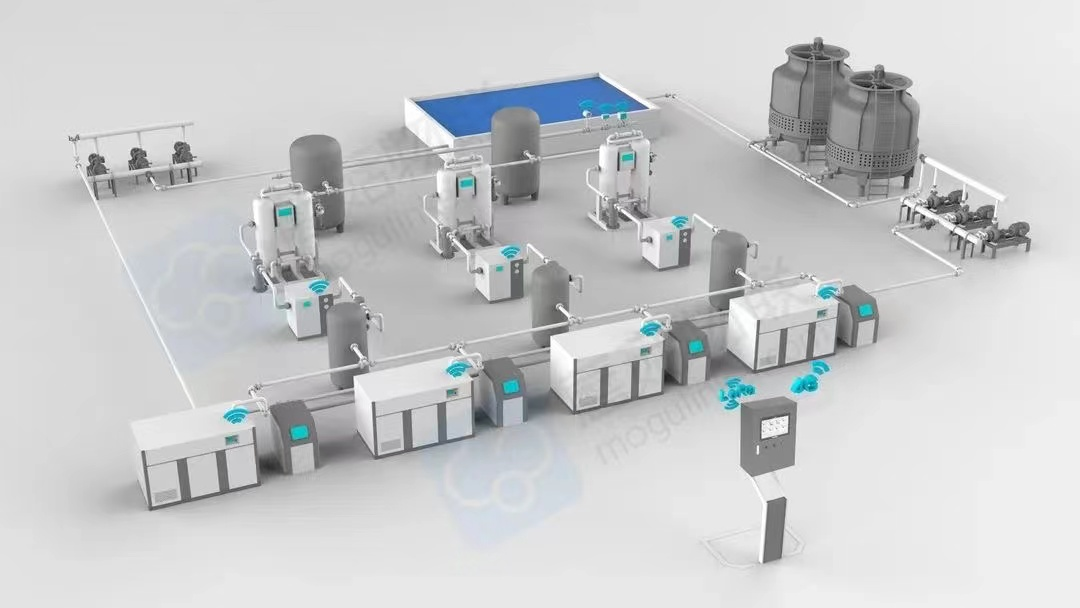
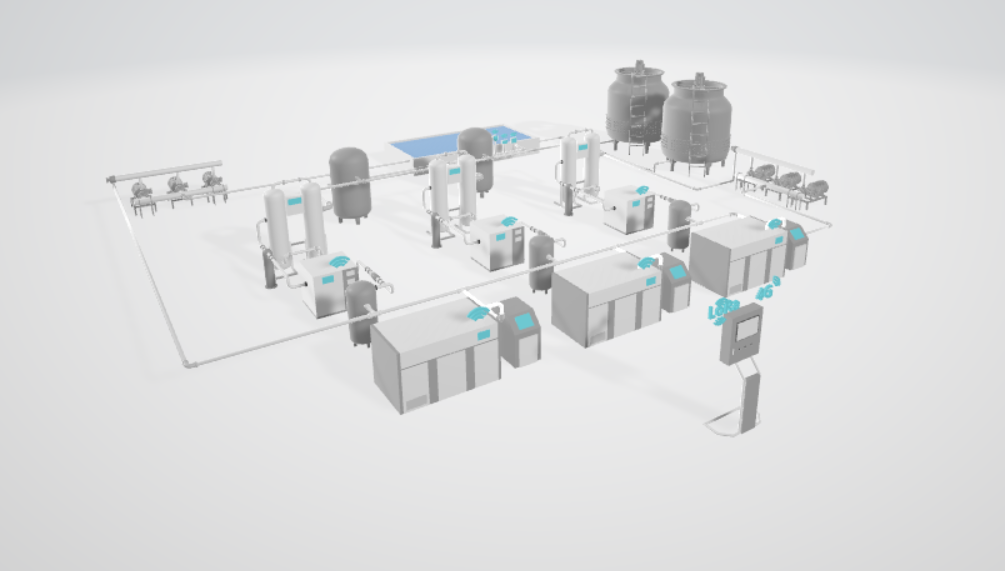
更改

diff --git a/digitaltwin_front/src/views/digitalTwin.vue b/digitaltwin_front/src/views/digitalTwin.vue
@@ -1,137 +1,138 @@
 <template>
-<div id="twin">
+  <div id="twin">
     <!-- <div id="console">
         {{ camera_data }}
     </div> -->
     <br />
     <div id="three"></div>
- </div>
+  </div>
 </template>
-  
-  <script lang="ts">
-  //import { integrityStream } from "ssri";
-  import * as THREE from "three";
-  import { OrbitControls } from "three/examples/jsm/controls/OrbitControls";
-  import { GLTFLoader } from "three/examples/jsm/loaders/GLTFLoader.js";
-  //创建一个三维场景
-  const scene = new THREE.Scene();
-  
-  export default {
-    data() {
-      return {
-        camera: null,
-        renderer: null,
-        camera_data: null,
-        camera1: null,
-        renderer1:null
-      };
-    },
-    mounted() {
-      this.$nextTick(this.init);
-    },
-    methods: {
-      init() {
-        //Light
-        //添加光源
-        const ambient = new THREE.AmbientLight(0xffffff, 0.5);
-        const light1 = new THREE.PointLight(0xffffff, 0.4);
-        const light2 = new THREE.PointLight(0xffffff, 0.4);
-  
-        //Scene
-        scene.add(ambient);
-        light1.position.set(200, 300, 400);
-        scene.add(light1);
-        light2.position.set(-200, -300, -400);
-        scene.add(light2);
-  
-        //Camera
-        //创建一个透视相机
-        const width = window.innerWidth,
-          height = window.innerHeight;
-        this.camera = new THREE.PerspectiveCamera(45, width / height, 1, 1000);
-        //设置相机位置
-        this.camera.position.set(200, 200, 200);
-        //设置相机方向
-        this.camera.lookAt(0, 0, 0);
-  
-        // //创建辅助坐标轴
-        // const axesHelper = new THREE.AxesHelper(100)
-        // scene.add(axesHelper)
-  
-        // //创建一个物体（形状）
-        // const geometry = new THREE.BoxGeometry(100, 100, 100)
-        // //创建材质（外观）
-        // const material = new THREE.MeshLambertMaterial({
-        //   color: 0x00ffff,//设置材质颜色
-        //   transparent: true,//开启透明度
-        //   opacity: 0.5 //设置透明度
-        // })
-        // //创建一个网格模型对象
-        // const mesh = new THREE.Mesh(geometry, material)
-        // //把网格模型添加到三维场景
-        // scene.add(mesh)
-  
-        //Renderer
-        //创建一个WebGL渲染器
-        this.renderer = new THREE.WebGLRenderer();
-        this.renderer.setSize(width, height);
+
+<script lang="ts">
+//import { integrityStream } from "ssri";
+import * as THREE from "three";
+import { OrbitControls } from "three/examples/jsm/controls/OrbitControls";
+import { GLTFLoader } from "three/examples/jsm/loaders/GLTFLoader.js";
+//创建一个三维场景
+const scene = new THREE.Scene();
+
+export default {
+  data() {
+    return {
+      camera: null,
+      renderer: null,
+      camera_data: null,
+      camera1: null,
+      renderer1: null,
+    };
+  },
+  mounted() {
+    this.$nextTick(this.init);
+  },
+  methods: {
+    init() {
+      //Light
+      //添加光源
+      const ambient = new THREE.AmbientLight(0xffffff, 0.5);
+      const light1 = new THREE.PointLight(0xffffff, 0.4);
+      const light2 = new THREE.PointLight(0xffffff, 0.4);
+
+      //Scene
+      scene.add(ambient);
+      light1.position.set(200, 300, 400);
+      scene.add(light1);
+      light2.position.set(-200, -300, -400);
+      scene.add(light2);
+
+      //Camera
+      //创建一个透视相机
+      const width = window.innerWidth,
+        height = window.innerHeight;
+      this.camera = new THREE.PerspectiveCamera(45, width / height, 1, 1000);
+      //设置相机位置
+      this.camera.position.set(30, 200, 200);
+      //设置相机方向
+      this.camera.lookAt(20, 20, 200);
+
+      // //创建辅助坐标轴
+      // const axesHelper = new THREE.AxesHelper(100)
+      // scene.add(axesHelper)
+
+      // //创建一个物体（形状）
+      // const geometry = new THREE.BoxGeometry(100, 100, 100)
+      // //创建材质（外观）
+      // const material = new THREE.MeshLambertMaterial({
+      //   color: 0x00ffff,//设置材质颜色
+      //   transparent: true,//开启透明度
+      //   opacity: 0.5 //设置透明度
+      // })
+      // //创建一个网格模型对象
+      // const mesh = new THREE.Mesh(geometry, material)
+      // //把网格模型添加到三维场景
+      // scene.add(mesh)
+
+      //Renderer
+      //创建一个WebGL渲染器
+      this.renderer = new THREE.WebGLRenderer();
+      this.renderer.setClearColor(0xffffff, 1.0);
+      this.renderer.setSize(width, height);
+      this.renderer.render(scene, this.camera);
+      document.getElementById("three")?.appendChild(this.renderer.domElement);
+
+      //创建摄像头1
+      const near = 1;
+      const far = 10000;
+      this.camera1 = new THREE.PerspectiveCamera(45, 500 / 250, near, far);
+      this.camera1.setViewOffset(500, 250, 0, 0, 500, 250);
+      this.camera1.position.z = 0; // z轴看向原点，正对屏幕
+      this.camera1.lookAt(0, 0, 0);
+      //创建渲染器1
+      this.renderer1 = new THREE.WebGLRenderer();
+      this.renderer1.setSize(500, 250);
+      this.renderer1.render(scene, this.camera1);
+      document.getElementById("screen1")?.appendChild(this.renderer1.domElement);
+
+      //Object
+      // 加载停车场地图模型
+      const loader = new GLTFLoader();
+      loader.load("model/model.gltf", (gltf) => {
+        //将模型添加至场景
+        scene.add(gltf.scene);
+        //设置模型位置
+        gltf.scene.position.set(-40, -15, 0);
+        gltf.scene.scale.set(40, 40, 40);
         this.renderer.render(scene, this.camera);
-        document.getElementById("three")?.appendChild(this.renderer.domElement);
-  
-        //创建摄像头1
-        const near = 1;
-        const far = 10000;
-        this.camera1 = new THREE.PerspectiveCamera(45, 500 / 250, near, far);
-        this.camera1.setViewOffset(500, 250, 0, 0, 500, 250);
-        this.camera1.position.z = 0; // z轴看向原点，正对屏幕
-        this.camera1.lookAt(0, 0, 0)
-        //创建渲染器1
-        this.renderer1 = new THREE.WebGLRenderer();
-        this.renderer1.setSize(500, 250);
-        this.renderer1.render(scene, this.camera1);
-        document.getElementById("screen1")?.appendChild(this.renderer1.domElement);
-  
-        //Object
-        // 加载停车场地图模型
-        const loader = new GLTFLoader();
-        loader.load("model/model.gltf", (gltf) => {
-          //将模型添加至场景
-          scene.add(gltf.scene);
-          //设置模型位置
-          gltf.scene.position.set(0, 0, 0);
-          this.renderer.render(scene, this.camera);
-          this.camera_data = this.camera.position;
-        });
-  
-        //Controls
-        //鼠标控制
-        const controls = new OrbitControls(this.camera, this.renderer.domElement);
-        //添加阻尼
-        controls.enableDamping = true;
-        controls.dampingFactor = 0.1;
-        //监听鼠标事件
-        controls.addEventListener("change", () => {
-          this.renderer.render(scene, this.camera);
-          this.camera_data = this.camera.position;
-        });
-      },
+        this.camera_data = this.camera.position;
+      });
+
+      //Controls
+      //鼠标控制
+      const controls = new OrbitControls(this.camera, this.renderer.domElement);
+      //添加阻尼
+      controls.enableDamping = true;
+      controls.dampingFactor = 0.1;
+      //监听鼠标事件
+      controls.addEventListener("change", () => {
+        this.renderer.render(scene, this.camera);
+        this.camera_data = this.camera.position;
+      });
     },
-  };
-  </script>
-  
-  <style scoped>
-  #three {
-    width: 100%;
-    height: 90%;
-    /* display: flex; */
-  }
-  #console {
-    width: 100%;
-    height: 10%;
-    /* display: flex; */
-  }
-  #twin{
-    margin-top:60px;
-  }
-  </style>
-  
+  },
+};
+</script>
+
+<style scoped>
+#three {
+  width: 100%;
+  height: 90%;
+  /* display: flex; */
+}
+#console {
+  width: 100%;
+  height: 10%;
+  /* display: flex; */
+}
+#twin {
+  margin-top: 60px;
+}
+</style>
